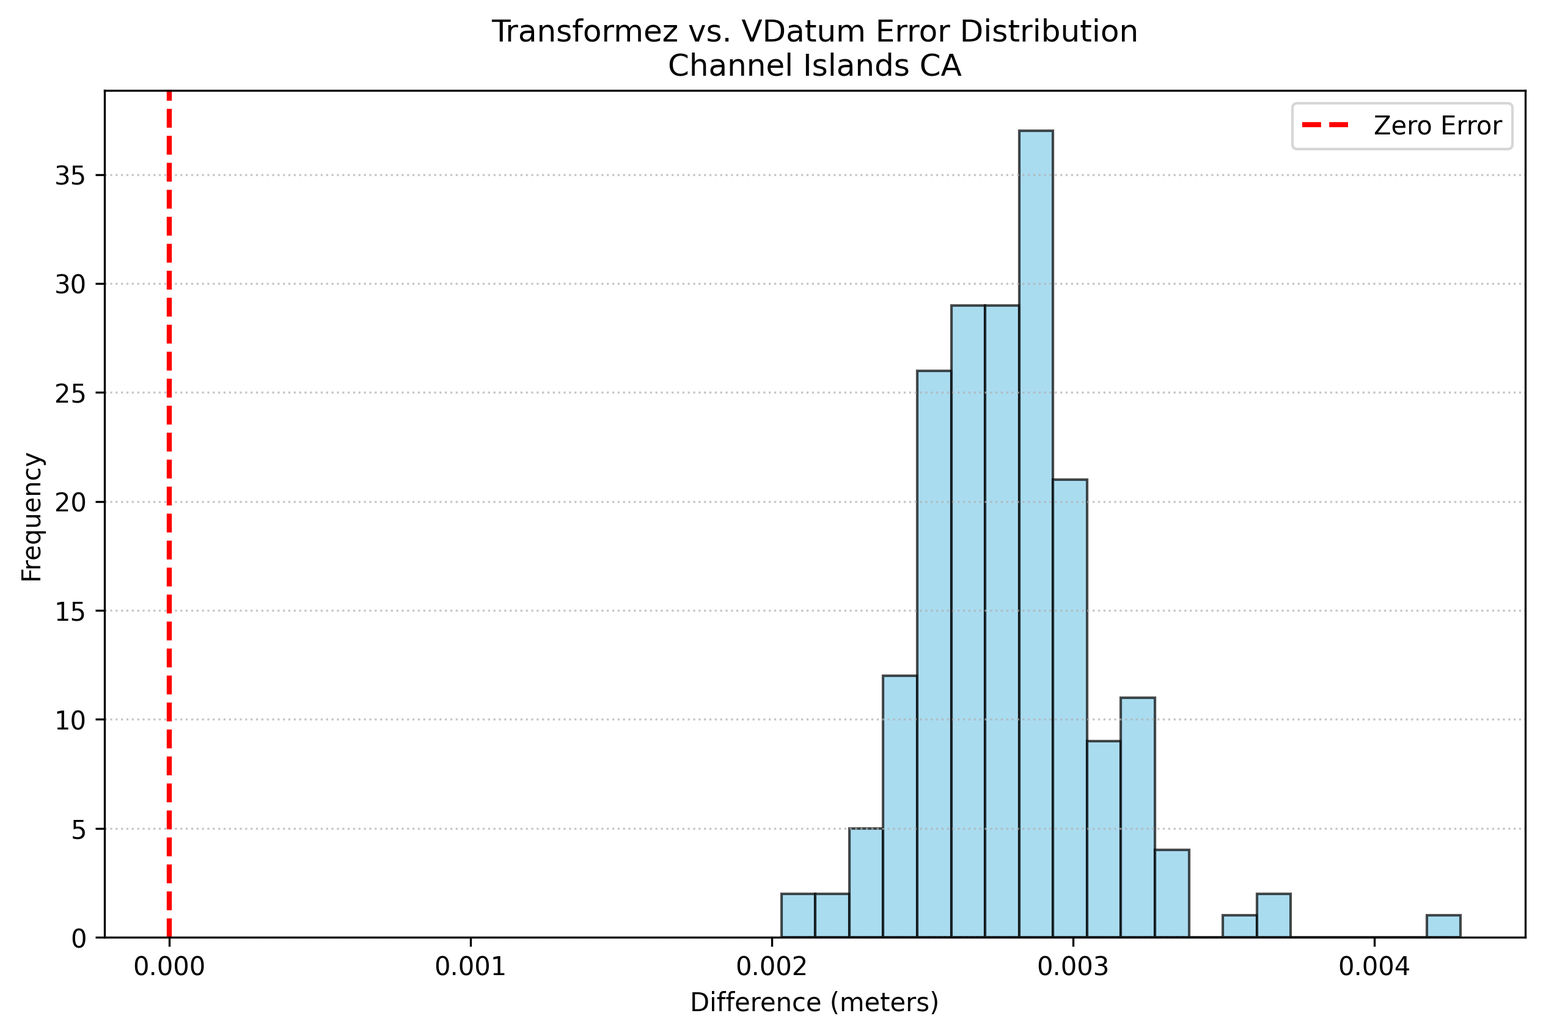
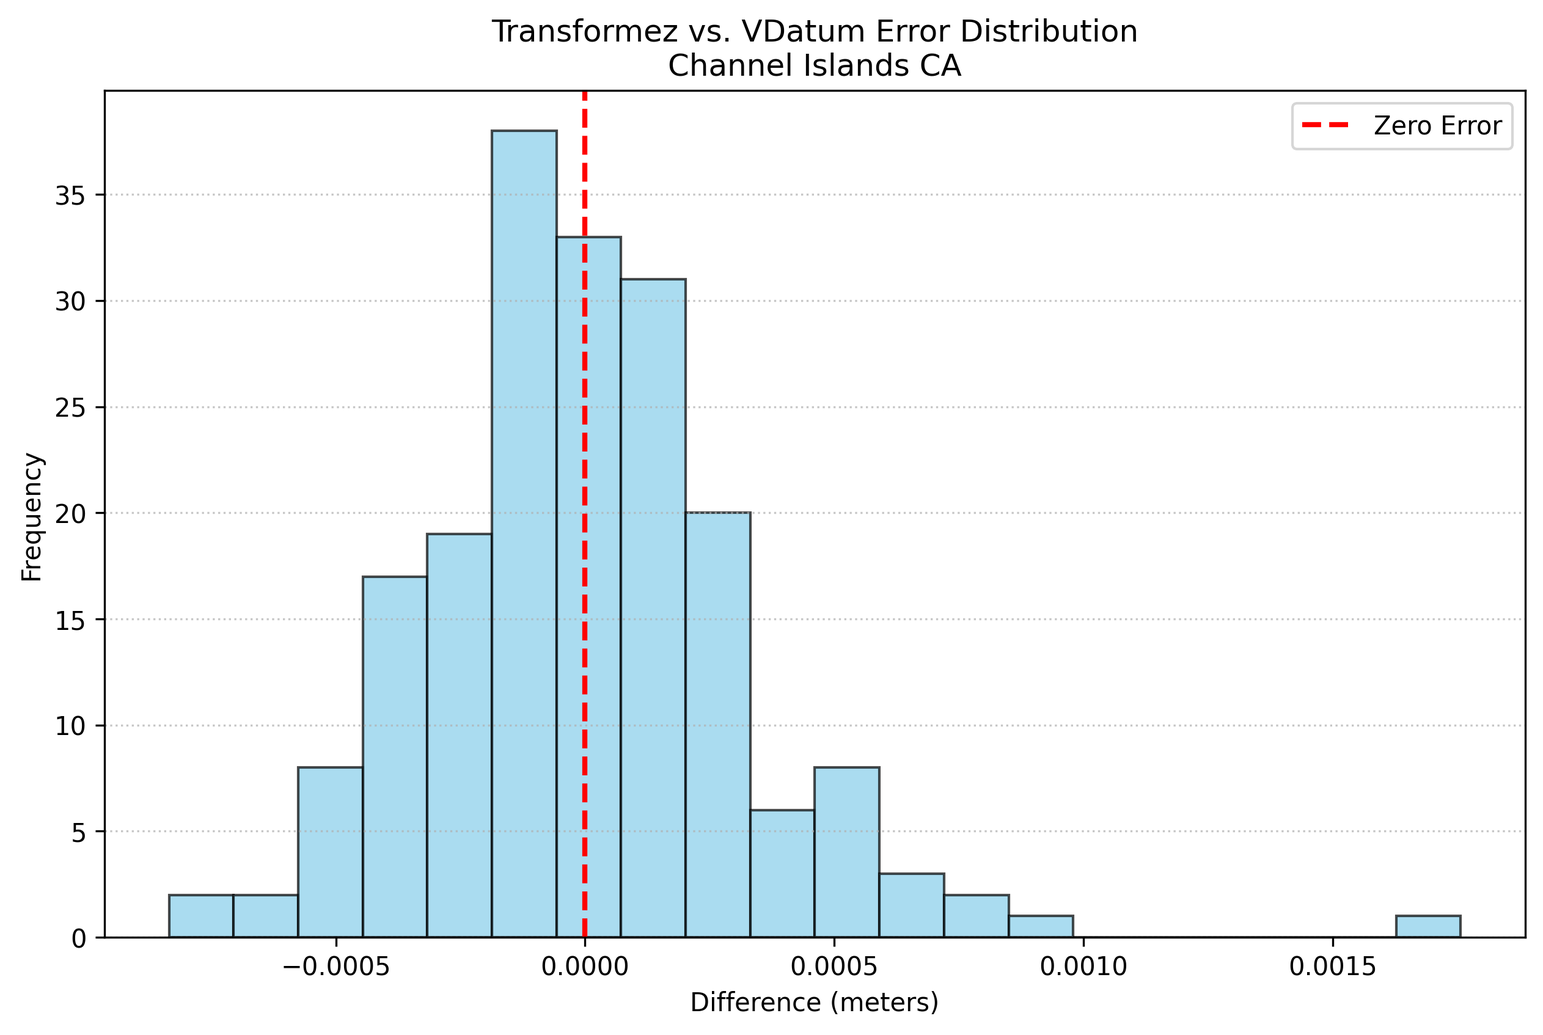
Documentation (#172)
* Refresh readme

* Refresh index

* Refresh user guide

* Refresh validation with htdp 3.5.0

* Refresh validation

diff --git a/tests/validation/validation.py b/tests/validation/validation.py
@@ -746,7 +746,7 @@ def generate_markdown_report(
     logger.info("Generating validation.md report...")
 
     md_lines = [
-        "# Validation & Accuracy",
+        "# 🏹 Validation & Accuracy",
         "",
         "Transformez is validated at several different levels because no single benchmark can fully describe the behavior of a coastal vertical-datum transformation engine. The tests below separate provider/grid accuracy, production coastal behavior, global-model agreement, and external HTDP integration.",
         "",
@@ -867,7 +867,9 @@ def generate_markdown_report(
     md_lines.extend(
         [
             "",
-            "![International Gauges]({intl_stats['image']})" if intl_stats else "",
+            "![International Gauges](../_static/validation_international_bars.png))"
+            if intl_stats
+            else "",
             "",
             "> **How to read this test:** Agreement at the decimeter scale is meaningful here because the comparison is between a gridded global ocean model and local station realizations, not two implementations of the same transformation grid. The test is primarily a validation of global fallback selection and physical plausibility.",
             "",

diff --git a/docs/source/user_guide/methodology.md b/docs/source/user_guide/methodology.md
@@ -1,5 +1,5 @@
 # 📐 Geodetic Methodology & Architecture
-To provide vertical transformations across varied geographic extents, Transformez relies on a dynamic, rigorous architecture. The engine computes optimal geodetic pathways on the fly — here's a look under the hood.
+To provide vertical transformations across varied geographic extents, Transformez relies on a dynamic, rigorous architecture. The engine computes optimal geodetic pathways on the fly. Here's a look under the hood.
 
 ```mermaid
 flowchart LR
@@ -18,9 +18,9 @@ The engine follows a typed reference → resolution → planning → execution p
 
 
 ## Reference Resolution
-Before a transformation path is constructed, Transformez resolves user-supplied reference inputs into separate horizontal and vertical components. Standard CRS definitions are resolved through PROJ, while Transformez-specific tidal and model surfaces use explicit namespaced identifiers such as vdatum:mllw and global:lat. Legacy shorthand names are normalized to these references for backward compatibility.
+Before a transformation path is constructed, Transformez resolves user-supplied reference inputs into separate horizontal and vertical components. Standard CRS definitions are resolved through PROJ, while Transformez-specific tidal and model surfaces use explicit namespaced identifiers such as `vdatum:mllw` and `global:lat`. Legacy shorthand names are normalized to these references for backward compatibility.
 
-Reference resolution is separate from transformation execution: parsing determines what a reference represents, and the transformation engine determines how to connect the resolved source and destination through the appropriate geodetic models and hubs. This separation lets you inspect the full plan — providers, models, hubs, and frame transformations — before any data are fetched.
+Reference resolution is separate from transformation execution: parsing determines what a reference represents, and the transformation engine determines how to connect the resolved source and destination through the appropriate geodetic models and hubs. This separation lets you inspect the full plan (providers, models, hubs, and frame transformations) before any data are fetched.
 
 
 ## The Dynamic Hub-and-Spoke Model
@@ -61,7 +61,7 @@ flowchart TD
 | WGS84      | MLLW     | WGS84    | Negative (↑ to ↓)       |
 | LAT        | MHHW     | WGS84    | Depends on location     |
 
-* **Native Ellipsoid Hubs:** Every transformation is mathematically routed through a central geodetic frame (the "Hub").
+* **Native Ellipsoid Hubs:** Every transformation is routed through a central geodetic frame (the "Hub").
 
 * **Intelligent Routing:** The engine evaluates the requested input and output datums and automatically selects the safest hub.
 For example, if both datums belong to the North American Datum family, the engine routes strictly through the NAD83 ellipsoid hub to avoid introducing unnecessary global transformation errors. If the request crosses international or global boundaries, it scales up to the WGS84 hub.
@@ -72,7 +72,7 @@ A common point of confusion in vertical geodesy is the sign convention of shift 
 
 * **The Stick in the Bay:** Imagine standing in the water of a bay holding a measuring stick with a "zero" line marked as Mean Low Water. If you move your "zero" mark to a higher datum (e.g., moving from Mean Low Water up to Mean Higher High Water), the water level on your stick will read as a lower number.
 
-* **The Rule of Addition:** Because of this, shifting to a higher reference surface can require positive *or* negative shift values depending on location. Transformez automatically handles these complex sign inversions internally so you don't have to overthink it. You always simply **ADD** the generated shift grid to your raster (i.e., `New_DEM = Old_DEM + Shift_Grid`). The grid's native positive and negative values automatically ensure the math reflects physical reality.
+* **The Rule of Addition:** Because of this, shifting to a higher reference surface can require positive *or* negative shift values depending on location. Transformez automatically handles these sign inversions internally so you don't have to overthink it. You always simply **ADD** the generated shift grid to your raster (i.e., `New_DEM = Old_DEM + Shift_Grid`). The grid's native positive and negative values automatically ensure the math reflects physical reality.
 
 * **Example:**
 
@@ -100,7 +100,7 @@ Since water piles up and moves around and tides push into shallow bays and narro
 
 
 ## Continuous Coastal Blending
-Official tidal models (like NOAA's VDatum) only provide data close to the coast. However, modern hydrodynamic modeling requires continuous grids that extend far into the deep ocean or miles inland.
+Official tidal models (like NOAA's VDatum) provide data close to the coast. However, modern hydrodynamic modeling requires continuous grids that extend far into the deep ocean or miles inland.
 
 * **Offshore Extrapolation:** When a requested bounding box extends beyond native VDatum coverage, Transformez automatically fetches global satellite altimetry (like DTU25 or FES2014) as a proxy.
 

diff --git a/docs/source/user_guide/validation.md b/docs/source/user_guide/validation.md
@@ -11,11 +11,11 @@ The versions below record the Python packages and external geodetic engines reso
 | Component | Version | Source |
 | :--- | :--- | :--- |
 | **Transformez** | 1.0.0 | python environment |
-| **Fetchez** | 0.8.7 | python environment |
-| **HTDP** | 3.6.0 | resolved by Transformez |
+| **Fetchez** | 0.8.8 | python environment |
+| **HTDP** | 3.5.0 | resolved by Transformez |
 | **VDatum** | 4.8 | user |
 
-> **Reproducibility note:** Transformez and Fetchez versions identify the Python implementation under test. HTDP and VDatum identify the external reference engines used by Tests 2 and 4; their resolved paths are recorded to make it explicit which managed or system installation was selected.
+> **Reproducibility note:** Transformez and Fetchez versions identify the Python implementation under test. HTDP and VDatum identify the external reference engines used by Tests 2 and 4.
 
 ## Test 1: Production Coastal Surface vs. NOAA CO-OPS Tide Stations
 
@@ -59,10 +59,10 @@ The Chesapeake Bay case exercises an even denser overlap environment, with numer
 
 | Region | VDatum Region | RMSE | Mean Difference | Points | Validation Challenge |
 | :--- | :--- | :--- | :--- | :--- | :--- |
-| **Chesapeake Bay** | 5 | 0.023705 m | 0.008765 m | 84 | Estuary Shoaling |
-| **Astoria OR** | 6 | 0.002611 m | 0.002592 m | 56 | River Dynamics |
+| **Chesapeake Bay** | 5 | 0.022522 m | 0.004625 m | 84 | Estuary Shoaling |
+| **Astoria OR** | 6 | 0.000385 m | -0.000062 m | 56 | River Dynamics |
 | **Tampa Bay FL** | 4 | 0.000365 m | -0.000049 m | 94 | Complex Bay Geometry |
-| **Channel Islands CA** | 6 | 0.002810 m | 0.002795 m | 191 | Overlapping Legacy and Modern VDatum Coverage Chains |
+| **Channel Islands CA** | 6 | 0.000326 m | -0.000002 m | 191 | Overlapping Legacy and Modern VDatum Coverage Chains |
 
 > **How to read this test:** This is a numerical implementation comparison, not a requirement for one-to-one reproduction of every internal VDatum software decision. Near-zero differences indicate that Transformez and VDatum evaluated effectively the same package and path. Larger localized differences, especially in dense overlap regions, should be interpreted in the context of package selection, mixed xGEOID/NAVD88 mosaicing, backend HTDP versions, grid interpolation, and each engine's overlap policy. The Channel Islands result is a regression check on mixed-generation package pairing and xGEOID/frame normalization; Chesapeake Bay additionally stresses multi-package overlap ordering.
 
@@ -80,7 +80,7 @@ This is not an engine-equivalence test: the reference station values and the gri
 | Station | Published Offset | Transformez | Delta |
 | :--- | :--- | :--- | :--- |
 
-![International Gauges](../_static/validation_international_bars.png)
+![International Gauges](../_static/validation_international_bars.png))
 
 > **How to read this test:** Agreement at the decimeter scale is meaningful here because the comparison is between a gridded global ocean model and local station realizations, not two implementations of the same transformation grid. The test is primarily a validation of global fallback selection and physical plausibility.
 
@@ -93,7 +93,7 @@ These tests are best understood as integration or regression checks rather than 
 | Test Region | Calculated Shift | Challenge | Status |
 | :--- | :--- | :--- | :--- |
 | **Washington (Cross-Epoch)** | -0.2610 m | Crustal Velocity & Datum Offset | PASS |
-| **Japan (East Longitude)** | 1.9530 m | Eastern Hemisphere Longitude Parsing | PASS |
+| **Japan (East Longitude)** | 1.9518 m | Eastern Hemisphere Longitude Parsing | PASS |
 
 > **How to read this test:** PASS indicates that the HTDP integration produced a plausible, finite result through the expected execution path. Detailed verification of HTDP's geophysical model belongs to NGS; these cases primarily protect Transformez against wrapper, frame-ID, epoch, and longitude-regression errors.
 

diff --git a/docs/source/user_guide/index.md b/docs/source/user_guide/index.md
@@ -1,21 +1,22 @@
 # User Guide
 
-This guide covers everything you need to install, use, and understand Transformez — from your first shift grid to the geodetic reasoning behind it.
+This guide covers everything you need to install, use, and understand Transformez; from your first shift grid to the geodetic reasoning behind it.
 
-Transformez transforms raster elevations between vertical datums — tidal datums, geoids, and ellipsoids — anywhere on Earth. Instead of a fixed lookup table, it resolves your input and output [references](references.md), plans the optimal geodetic pathway, and produces a **spatially varying shift grid** that you can generate from the [CLI](usage.md#command-line-interface), build through the Python API, or apply directly to a raster.
+Transformez transforms raster elevations between vertical datums (tidal datums, geoids, and ellipsoids) anywhere on Earth. Transformez resolves your input and output [references](references.md), plans the optimal geodetic pathway, and produces a **spatially varying shift grid** that you can generate from the [CLI](usage.md#command-line-interface), build through the Python API, or apply directly to a raster.
 
 ## How to read this guide
 
-- **New to Transformez?** Follow the guide in order — [Installation](installation.md) → [Usage](usage.md) → [References](references.md) → [Methodology](methodology.md). The whole path takes about fifteen minutes.
+- **New to Transformez?** Follow the guide in order: [Installation](installation.md) → [Usage](usage.md) → [References](references.md) → [Methodology](methodology.md).
 - **Just want the commands?** Jump to [Usage](usage.md) for CLI and Python examples, or the [full CLI reference](cli_usage.md).
 - **Unsure what `-I vdatum:mllw` means?** See [Vertical References](references.md) for authority CRSs, namespaced surfaces, and the reference/binding model.
-- **Applying a shift grid to your own data?** Read the [sign conventions](methodology.md#the-datum-shift-sign-conventions) first — the shift grid is always **added**, and the reasoning is not what most people expect.
+- **Applying a shift grid to your own data?** Read the [sign conventions](methodology.md#the-datum-shift-sign-conventions) first: the generated shift grid is always **added**.
 - **Building flood or surge models?** The [inland decay](methodology.md#inland-tidal-decay) section covers when to disable coastal attenuation.
 - **Curious how a tidal-to-geoid pathway is actually built?** [Methodology](methodology.md) explains the hub-and-spoke routing, and the [VDatum Coverage Chains](vdatum_chains.md) appendix goes deep on mixed-generation VDatum handling.
 - **Need to trust the numbers?** [Validation & Accuracy](validation.md) shows measured agreement against NOAA CO-OPS, VDatum, FES/DTU, and NGS HTDP.
 
 
 > Using Transformez from another application? Transformez integrates with Fetchez and QGIS; see the [Integrations](usage.md#integrations) section.
+
 
 ```{toctree}
 :maxdepth: 2

diff --git a/docs/source/user_guide/usage.md b/docs/source/user_guide/usage.md
@@ -1,8 +1,8 @@
 # 🛠 Usage
 
-Transformez can be used directly from the command line or Python API, or through integrations such as Fetchez and QGIS. All interfaces — CLI, Python API, and integrations such as Fetchez and QGIS — accept the same [references](references.md) and behave identically.
+Transformez can be used directly from the command line or Python API, or through integrations such as Fetchez and QGIS. All interfaces (CLI, Python API, and integrations such as Fetchez and QGIS) accept the same [references](references.md) and behave identically.
 
-> **🧮 Sign conventions:** vertical datum shifts are not intuitive — shifting to a *higher* surface does not simply mean positive values. Transformez handles all sign conventions internally. The one thing to remember: **always ADD the shift grid** to your elevation data. See the [sign conventions](methodology.md#the-datum-shift-sign-conventions) section of the methodology guide for the physical intuition.
+> **🧮 Sign conventions:** vertical datum shifts are not always intuitive (shifting to a *higher* surface does not simply mean positive values). Transformez handles all sign conventions internally. The one thing to remember: **always ADD the shift grid** to your elevation data. See the [sign conventions](methodology.md#the-datum-shift-sign-conventions) section of the methodology guide for the physical intuition.
 
 ## Command Line Interface
 
@@ -64,7 +64,7 @@ out_file = transformez.transform_raster(
 (which-interface-do-i-want)=
 ## Which interface do I want?
 
-For most users, `transformez.generate_grid(...)` is all you need — it returns a 2D NumPy array of shift values, optionally saved to disk.
+For most users, `transformez.generate_grid(...)` is all you need. This will return a 2D NumPy array of shift values, optionally saved to disk as a GIS-compatible raster.
 
 When you need a fully georeferenced, inspectable transformation product, use `build_shift_grid(...)` to obtain a `ShiftGrid` object. It carries the array, region, CRS, affine transform, source and target references, epochs, provenance, generation key, uncertainty, and cache identity, and can write or reproject itself.
 

diff --git a/README.md b/README.md
@@ -17,7 +17,7 @@
 
 **Transformez** builds and applies vertical transformations across geodetic, tidal, and model-based height references, from local datums to global surfaces.
 
-Transformez resolves your input and output references, computes the optimal geodetic pathway on the fly, and generates **spatially varying shift grids** — where regional models end, the transformation continues across open ocean and inland using global proxies, coastal blending, and meter-based inland decay.
+Transformez resolves your input and output references, computes the optimal geodetic pathway on the fly, and generates **spatially varying shift grids**. Where regional models end, Transformez continues across open ocean and inland using global proxies, coastal blending, and meter-based inland decay.
 
 Transformez is part of the [Continuous DEMs Project](https://continuous-dems.readthedocs.io/), an ecosystem of tools for modern, continuous digital elevation model generation. Originally incubated within CUDEM, the engine has evolved into a standalone datum transformation suite.
 
@@ -64,7 +64,7 @@ shift_array = transformez.generate_grid(
 )
 ```
 
-> ⚠ Shift grids are always added to your elevation data — the sign conventions are handled internally. See the [methodology guide](https://transformez.readthedocs.io/en/latest/user_guide/methodology.html#the-datum-shift-sign-conventions) for the physical intuition.
+> ⚠ Shift grids are always added to your elevation data; the sign conventions are handled internally. See the [methodology guide](https://transformez.readthedocs.io/en/latest/user_guide/methodology.html#the-datum-shift-sign-conventions) for the physical intuition.
 
 ## 📚 Documentation
 

diff --git a/docs/source/user_guide/references.md b/docs/source/user_guide/references.md
@@ -1,6 +1,6 @@
 # 🗺 Vertical References
 
-A reference describes the surface that elevations are expressed relative to. Transformez accepts two kinds of vertical input:
+A reference describes the surface that elevations are expressed relative to. Transformez accepts multiple kinds of vertical input:
 
 | Form                  | Example          | Meaning                            |
 | --------------------- | ---------------- | ---------------------------------- |
@@ -32,7 +32,7 @@ Transformez conceptually separates vertical **references** from vertical **bindi
 - The **reference** describes *what* the surface is (e.g., NOAA's realization of MLLW).
 - The **binding** describes *how* Transformez realizes and operates on that surface.
 
-Bindings encode the realization details — `provider`, `engine`, `provider-specific datum`, `native frame`, and `default model` — independently of the reference metadata. This separation lets the same reference evolve to new models or providers without changing user-facing input syntax.
+Bindings encode the realization details, such as `provider`, `engine`, `provider-specific datum`, `native frame`, and `default model`, independently of the reference metadata. This separation lets the same reference evolve to new models or providers without changing user-facing input syntax.
 
 Not all references have a supported binding; see [Models and Providers](providers.md) for the current bindings.
 

diff --git a/docs/source/index.md b/docs/source/index.md
@@ -4,6 +4,8 @@
 
 **Transformez** builds and applies vertical transformations across geodetic, tidal, and model-based height references, from local datums to global surfaces.
 
+Transformez resolves your input and output references, computes the optimal geodetic pathway on the fly, and generates **spatially varying shift grids**. Where regional models end, Transformez continues across open ocean and inland using global proxies, coastal blending, and meter-based inland decay.
+
 Transformez is part of the [Continuous DEMs Project](https://continuous-dems.readthedocs.io/), an ecosystem of tools for modern, continuous digital elevation model generation.
 
 ## Key Features
@@ -99,7 +101,7 @@ out_file = transformez.transform_raster(
 
 ## Learn More
 
-Read the [User Guide](user_guide/index.md) to install Transformez, generate your first shift grid, and understand how it works — from reference inputs and the CLI/Python API through the [geodetic methodology](user_guide/methodology.md) behind the dynamic hub-and-spoke routing, sign conventions, and coastal blending.
+Read the [User Guide](user_guide/index.md) to install Transformez, generate your first shift grid, and understand how it works; from reference inputs and the CLI/Python API through the [geodetic methodology](user_guide/methodology.md) behind the dynamic hub-and-spoke routing, sign conventions, and coastal blending.
 
 ```{toctree}
 :maxdepth: 2

diff --git a/docs/source/user_guide/installation.md b/docs/source/user_guide/installation.md
@@ -28,7 +28,7 @@ pip install git+https://github.com/continuous-dems/transformez.git#egg=transform
 
 ## External Engines
 
-Transformez manages its external geodetic engines through the CLI, downloading and configuring them automatically. Neither engine is required for every transformation — Transformez will tell you when a requested pathway needs one.
+Transformez manages its external geodetic engines through the CLI, downloading and configuring them automatically. Neither engine is required for every transformation: Transformez will tell you when a requested pathway needs one.
 
 ### HTDP
 
@@ -44,7 +44,7 @@ By default HTDP installs into your user configuration. To install into the curre
 transformez htdp install --project
 ```
 
-If your workflows stay within static tidal/geoid transformations, HTDP may not be needed at all — Transformez will surface a clear message if a requested transformation requires it.
+If your workflows stay within static tidal/geoid transformations, HTDP may not be needed at all. Transformez will surface a clear message if a requested transformation requires it.
 
 ### NOAA VDatum Java
 

diff --git a/docs/source/user_guide/cli_usage.md b/docs/source/user_guide/cli_usage.md
@@ -1,6 +1,6 @@
 # 💻 Command Line Interface
 
-The `transformez` command line tool lets you generate or apply vertical transformation grids. Commands follow the 1.0 architecture: `build` for shift-grid generation, `shift` for raster transformation, plus inspection and planning commands to examine references and transformation paths before running them.
+The `transformez` command line tool lets you generate or apply vertical transformation grids. Commands follow the 1.0 architecture: `build` for shift-grid generation, `shift` for product transformation, plus inspection and planning commands to examine references and transformation paths before running them.
 
 Commands are organized into three groups: **Execution** (`build`, `shift`, `prefetch`), **Discovery** (`list`, `info`, `plan`), and **External engines** (`htdp`, `vdatum` for installing and managing the NGS HTDP and NOAA VDatum engines). Legacy commands `grid` and `raster` remain available as deprecated aliases for `build` and `shift`.
 

diff --git a/docs/source/user_guide/providers.md b/docs/source/user_guide/providers.md
@@ -11,4 +11,4 @@ Transformez automatically fetches model and reference data from a number of prov
 | Dist2Coast      | Coastal context            | internal                   |
 | HTDP            | Frame/epoch                | ellipsoidal frame changes  |
 
-Data fetching, retry, and caching are handled by Fetchez, Transformez's companion fetching library, so providers can be swapped or extended without touching the transformation engine itself. See [Methodology](methodology.md) for how these models are composed into a single transformation pathway.
+Data fetching, retry, and caching are handled by [Fetchez](https://fetchez.readthedocs.io/en/latest/index.html), so providers can be swapped or extended without touching the transformation engine itself. See [Methodology](methodology.md) for how these models are composed into a single transformation pathway.

diff --git a/docs/source/user_guide/vdatum_chains.md b/docs/source/user_guide/vdatum_chains.md
@@ -1,4 +1,4 @@
-# 🌊 VDatum Coverage Chains (Appendix)
+# 🌊 VDatum Coverage Chains
 
 NOAA VDatum regional packages are treated by Transformez as coherent transformation units rather than as collections of interchangeable grids.
 
